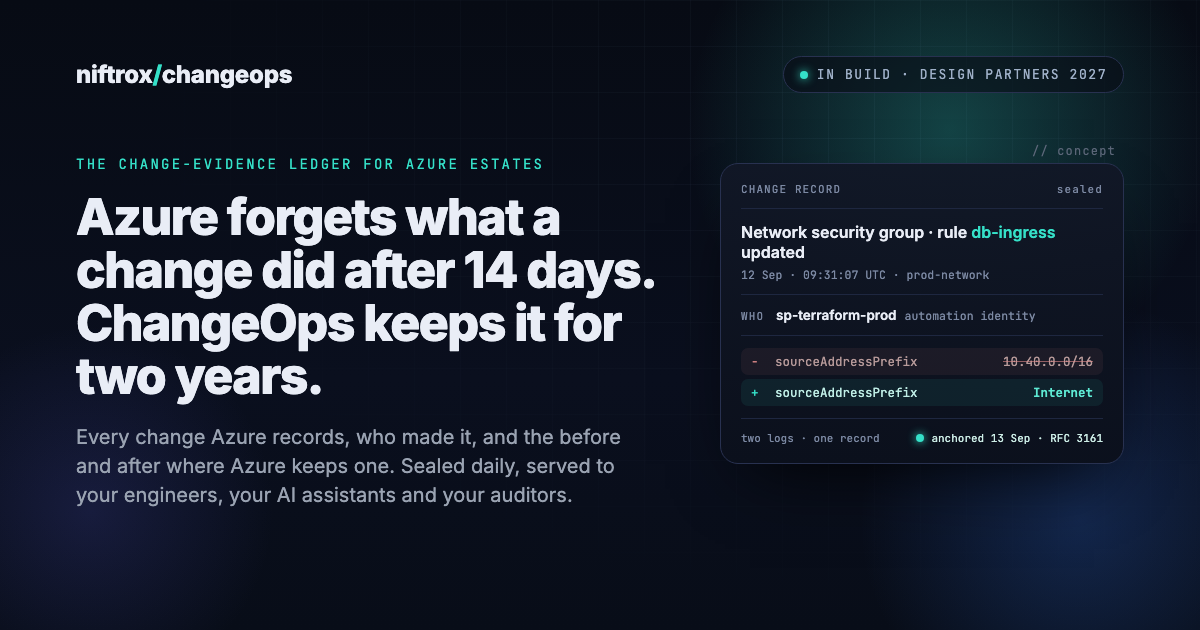
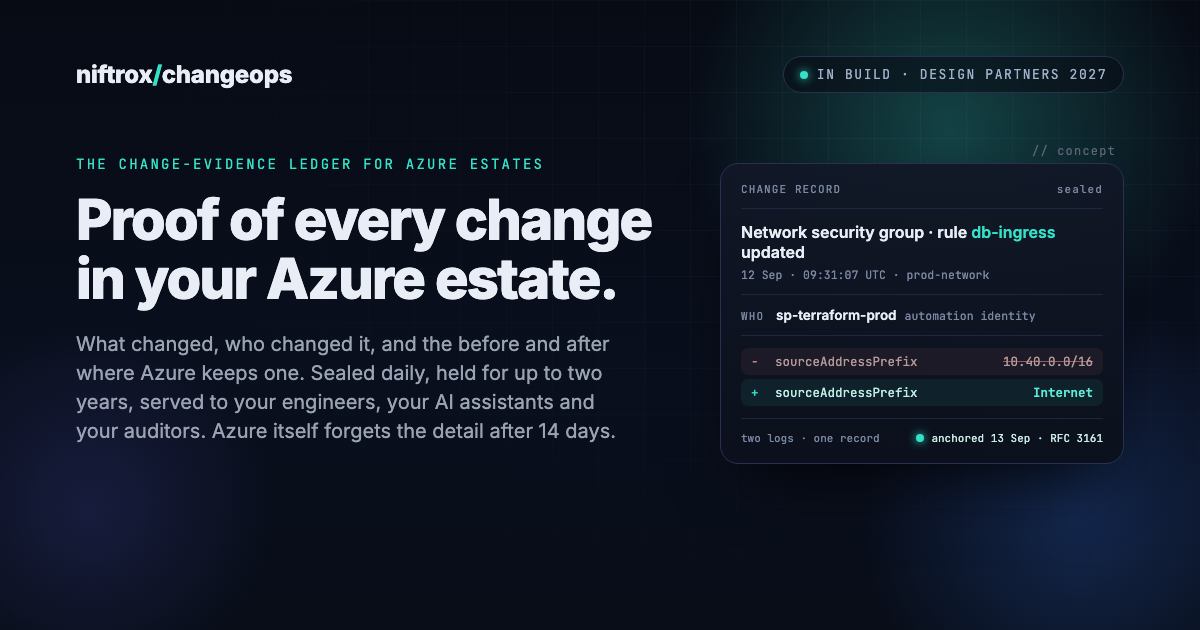
feat: lead the hero with proof of every change and drop other clouds from the roadmap (#22)
The headline no longer sells retention, which the manual marks as the
leg Microsoft is most likely to erode; the 14-day memory point moves to
the subhead as the reason. The roadmap's conditional phase no longer
names AWS or GCP: the manual treats a second cloud as a customer-funded
possibility and the ideal customer is Azure-primary. Share image and
design record follow.

Changed region(s): [[0.0617, 0.3016, 0.555, 0.8143]]

diff --git a/docs/superpowers/specs/2026-05-31-niftrox-landing-page-design.md b/docs/superpowers/specs/2026-05-31-niftrox-landing-page-design.md
@@ -13,9 +13,9 @@
 A single-page, **pre-launch** marketing site for ChangeOps. The product is **in build**; design partners connect in 2027 and paid pilots start in 2028. The page communicates, at a high level, what ChangeOps is and makes a credible impression on two readers: the platform lead who owns an Azure estate and the security or compliance owner who answers auditors. It is **information + motion only**.
 
 ### Goals
-- Communicate the product thesis: *Azure forgets what changed after 14 days; ChangeOps keeps every change, with who made it and the before and after, for two years, sealed daily, and serves it to engineers, AI assistants over MCP, and auditors.*
+- Communicate the product thesis: *proof of every change in an Azure estate: what changed, who changed it, the before and after where Azure keeps one, sealed daily, held for up to two years, served to engineers, AI assistants over MCP, and auditors.*
 - Make a skeptical **platform/SRE engineer** and a **compliance owner** believe this is evidence, not a dashboard.
-- Convey the real phases (connect and remember → evidence → compliance tools → enterprise extras when funded) and the three uses (the "nobody changed anything" incident, the period report and sealed packs, the customer's own AI asking over MCP).
+- Convey the real phases (connect and remember → evidence → compliance tools → enterprise extras if funded) and the three uses (the "nobody changed anything" incident, the period report and sealed packs, the customer's own AI asking over MCP).
 - Be **fully responsive** (mobile-first) with rich-but-tasteful animation throughout.
 
 ### Non-goals (hard constraints)
@@ -31,7 +31,7 @@ A single-page, **pre-launch** marketing site for ChangeOps. The product is **in 
 Sourced from `niftrox-docs/changeops-founder-manual-v3.md` (§1 product, §2 buyers, §3 features, §4 stable core, §6 how it works, §10 roadmap, §12 SOC 2) and `changeops-mvp-spec-v3.md` (§8 MCP, §11.17 verify page, §13 security). Authority order per root CLAUDE.md: shipped code → MVP spec / founder manual. Phase years come from the COPS Jira releases (Phase 1 to Nov 2027, Phase 2 to Nov 2028, Phase 3 to Aug 2029, Phase 4 conditional).
 
 - **Positioning line:** The change-evidence ledger for Azure estates: what changed, by whom, with the difference, sealed, for two years.
-- **Headline:** "Azure forgets what changed after 14 days. ChangeOps keeps it for two years."
+- **Headline:** "Proof of every change in your Azure estate." The 14-day memory point is the subhead's reason, never the headline: the manual treats retention as the leg Microsoft is most likely to erode (§1 weak points, §17).
 - **Eyebrow:** "The change-evidence ledger for Azure estates"
 - **Status pill:** "IN BUILD · DESIGN PARTNERS 2027"
 - **Sources shown:** Control plane · Entra ID · Kubernetes · Key Vault · SQL (later).
@@ -41,7 +41,7 @@ Sourced from `niftrox-docs/changeops-founder-manual-v3.md` (§1 product, §2 buy
 - The product ships **no tuned ranking scores, confidence labels or summaries of its own**. It returns a deterministic "check this first" order with the reasons shown, one-line difference summaries and churn counts; the customer's agent reasons (manual §1 scope-creep box, §3 B2 and B6, §16 rules 5 and 6).
 - **Never sell engineer hours saved**; the page sells the two-year memory, the "nobody changed anything" incident and audit evidence (manual §7).
 - **Interfaces shown as delivered:** MCP clients (Claude, ChatGPT, GitHub Copilot, Copilot Studio, Azure SRE Agent), the web app, the REST API and signed webhooks, share links, evidence packs and the period report. **Later (dashed):** evidence delivery into the customer's SIEM and into Vanta or Drata by the customer's own script. No chat, ticketing or incident-tool integrations exist or are planned; share links cover them (manual §3 "not built").
-- **Other clouds:** validated in the design, built only when a customer funds them. Never shown as "next".
+- **Other clouds:** not shown anywhere on the page. The manual treats them as a customer-funded possibility (§3 "not built", §10 phase 4) and the ideal customer is Azure-primary (§2); advertising them invites the wrong buyer.
 - **Compliance badges** state the posture, not a certification: "SOC 2 controls from day one", "UK GDPR · EU hosted · DPA", "Read-only · no credentials held", "Sealed daily · RFC 3161".
 - The product UI shown (the change record card) is labelled **`// concept`** so it reads as an illustration, not a live screenshot.
 
@@ -64,7 +64,7 @@ Sourced from `niftrox-docs/changeops-founder-manual-v3.md` (§1 product, §2 buy
 3. **How it works** — animated pipeline: **01 Connect** (approve one app, assign Reader; read-only forever) → **02 Collect** (Activity Log, Resource Graph changes, Entra ID audit, AKS and Key Vault audit; raw logs read, kept only inside frozen packs) → **03 Record** (two source chips merge into one record; churn folded) → **04 Seal** (a chain of day blocks, today's stamped; RFC 3161 anchor, verify offline).
 4. **Interfaces fan-out** — the ledger → MCP clients · web app · REST API and signed webhooks · share links · evidence packs and the period report (delivered) + SIEM and compliance platform (later).
 5. **Under the hood** — 6 credibility cards: Sealed, Read-only, Deterministic, Named, Isolated, Audited.
-6. **Roadmap** — NOW to late 2027 (connect, collect, remember) → NEXT 2028 (evidence) → THEN 2029 (into your compliance tools) → LATER when funded (enterprise extras); footnote that dates are targets and the stable core stays fixed.
+6. **Roadmap** — NOW to late 2027 (connect, collect, remember) → NEXT 2028 (evidence) → THEN 2029 (into your compliance tools) → LATER if funded (SCIM, provider view, UK residency, seven-year retention); footnote that dates are targets and the stable core stays fixed.
 7. **Footer** — brand + "in build"; the four posture badges; copyright; `mailto:` for design-partner conversations.
 
 ---
